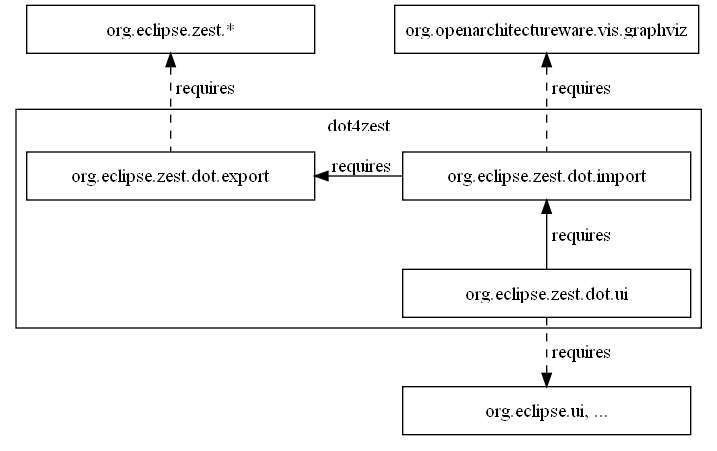
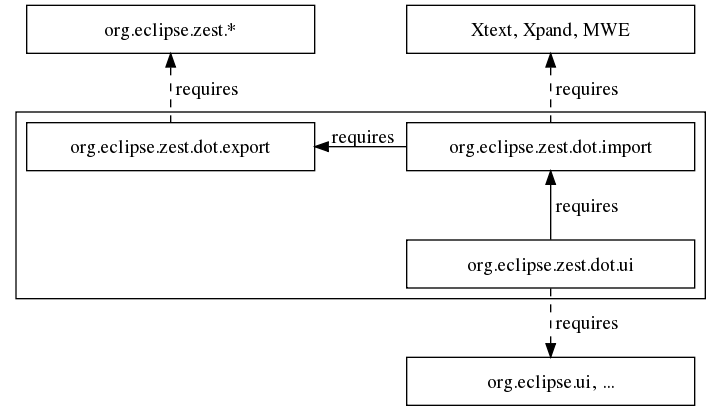
[277380] gef-head fsteeg 100515 Updated documentation

diff --git a/org.eclipse.zest.dot.ui/Graphviz_DOT_as_a_DSL_for_Zest/Graphviz-DOT-as-a-DSL-for-Zest.html b/org.eclipse.zest.dot.ui/Graphviz_DOT_as_a_DSL_for_Zest/Graphviz-DOT-as-a-DSL-for-Zest.html
@@ -27,10 +27,10 @@
 		</p>
 		<h2 id="User_Documentation">User Documentation</h2>
 		<h3 id="Installation">Installation</h3>
-		<p>In Eclipse 3.5, add the update site at 
+		<p>Add the update site at 
 			<i>http://quui.de/updates</i> (Help -&gt; Install New Software... -&gt; Add...) and install the 
 			<i>dot4zest</i> feature (from the 
-			<i>Zest</i> category). Note that this is an external update site for easy access to preview releases, and not provided by the Eclipse Foundation.
+			<i>Zest</i> category). Use the latest 0.9.x version for Helios, or the latest 0.8.x version for Galileo. Note that this is an external update site for easy access to preview releases, and not provided by the Eclipse Foundation.
 		</p>
 		<h3 id="GUI">GUI</h3>
 		<p>In the UI, this feature adds two wizards ('New Zest Graph' and 'New Zest Project') under a category labeled 'Visualization':</p>
@@ -83,7 +83,12 @@
 			<i>templates/</i> folder of a Zest project, the file will both be visualized in the Zest Graph view (e.g. during editing) and compiled to a Zest graph subclass (e.g. to be used in a different application), and can be exported as a PDF with Graphviz.
 		</p>
 		<p>At the same time the view provides a simple way to visualize *.dot file output of any kind of program, e.g. to visualize and debug internal data structures, results, etc: if a program running in Eclipse outputs any *.dot file in the workspace, the view will be updated with the corresponding Zest graph.</p>
-		<p>In addition to visualizing DOT files with Zest, the Zest view also displays embedded DOT in other files, e.g. for DOT graphs 
+		<h4 id="Editing">Editing</h4>
+		<p>The Zest view can be used with the included DOT editor to visualize a DOT file:</p>
+		<p>
+			<img width="400" border="0" src="images/DotZestEditor.png"/>
+		</p>
+		<p>Additionally, the Zest view also displays embedded DOT in other files, e.g. 
 			<a href="http://fsteeg.wordpress.com/2010/01/07/visual-textual-documentation-with-dot-and-zest-in-eclipse/" target="doc_external">in source code comments</a> or 
 			<a href="http://fsteeg.wordpress.com/2010/02/07/diagrams-in-wiki-markup-with-mylyn-wikitext-dot-and-zest/" target="doc_external">in wiki markup</a>:
 		</p>
@@ -177,19 +182,18 @@ File image = exporter.toImage("/opt/local/bin", "pdf");
 			<a href="https://bugs.eclipse.org/bugs/enter_bug.cgi?bug_file_loc=http%3A%2F%2Fwiki.eclipse.org%2FGraphviz_DOT_as_a_DSL_for_Zest&amp;bug_severity=enhancement&amp;bug_status=NEW&amp;comment=&amp;component=Zest&amp;contenttypeentry=&amp;contenttypemethod=autodetect&amp;contenttypeselection=text%2Fplain&amp;data=&amp;description=&amp;flag_type-1=X&amp;flag_type-2=X&amp;flag_type-6=X&amp;form_name=enter_bug&amp;maketemplate=Remember%20values%20as%20bookmarkable%20template&amp;op_sys=All&amp;priority=P3&amp;product=GEF&amp;rep_platform=All&amp;short_desc=%5Bdot4zest%5D%20New%20request%20summary&amp;version=unspecified" target="doc_external">file a new bug</a>. The code for this feature is part of the CVS repository at 
 			<i>dev.eclipse.org:/cvsroot/tools</i>. The dot4zest bundles can be found in 
 			<i>org.eclipse.gef/plugins</i>, named 
-			<i>org.eclipse.zest.dot.*</i>.
+			<i>org.eclipse.zest.dot.*</i>. 
 		</p>
-		<p>To run the current work in progress code, check out the bundles from the CVS location above in Eclipse 3.5 (Galileo) and install the Zest, JET, Xpand, Xtext and MWE 0.7.x features (which are available from the Galileo update site; you have to uncheck 'group items by category' to see the Zest features).</p>
-		<p>You should also install the optional Xtext Antlr feature 0.7.x from the Itemis update site at 
+		<p>To run the current work in progress code (in Eclipse 3.6 Helios), install the Zest, JET, Xpand, Xtext and MWE 1.x.x features (which are available from the Helios update site under the 
+			<i>modeling</i> category). You will also have to install the Xtext Antlr feature 1.x.x from the Itemis update site at 
 			<i>
-				<a href="http://download.itemis.com/updates/" target="doc_external">http://download.itemis.com/updates/</a>
+				<a href="http://download.itemis.com/updates/milestones" target="doc_external">http://download.itemis.com/updates/milestones</a>
 			</i> (see the 
-			<a href="http://www.eclipse.org/Xtext/documentation/0_7_0/xtext.html#antlr_ip_issue" target="doc_external">Xtext documentation</a> for details on this). Finally, you need to check out the 
-			<i>org.openarchitectureware.vis.graphviz</i> bundle from the SVN at 
-			<i>
-				<a href="http://emfmodelvisualizer.googlecode.com/svn/galileo/" target="doc_external">http://emfmodelvisualizer.googlecode.com/svn/galileo/</a>
-			</i>. After the checkout, run (Run As -&gt; MWE workflow) the 
-			<i>GenerateDot.mwe</i> in the src/ folder of that bundle. 
+			<a href="http://www.eclipse.org/Xtext/documentation/0_7_0/xtext.html#antlr_ip_issue" target="doc_external">Xtext documentation</a> for details on this). 
+		</p>
+		<p>Then, check out the bundles from the CVS location above. After the checkout, run (Run As -&gt; MWE2 workflow) the 
+			<i>GenerateDot.mwe2</i> in the 
+			<i>/src/org/eclipse/zest/internal/dot/parser</i> folder of the import bundle.
 		</p>
 		<p>Run the 
 			<i>*Suite.java</i> test suites of the individual bundles (in src-test/) as JUnit tests to get an impression of the current implementation state. To test the UI components, run an Eclipse application configured with 
@@ -215,20 +219,16 @@ File image = exporter.toImage("/opt/local/bin", "pdf");
 		</p>
 		<p>
 			<div class="thumb right">
-				<div class="thumbinner" style="width:277px;">
+				<div class="thumbinner" style="width:177px;">
 					<a href="DotZestOverview.png" class="image">
-						<img class="thumbimage" width="275" align="right" border="0" src="images/DotZestOverview.png"/>
+						<img class="thumbimage" width="175" align="right" border="0" src="images/DotZestOverview.png"/>
 					</a>
-					<div class="thumbcaption">Implementing Graphviz DOT input and output for Zest using Eclipse modeling technology (solid arrows represent  components outside of dot4zest)</div>
+					<div class="thumbcaption">Implementation of Graphviz DOT input and output for Zest using Eclipse modeling technology</div>
 				</div>
 			</div>
 		</p>
 		<h4 id="DOT_to_Zest">DOT to Zest</h4>
-		<p>An Xtext grammar, parser and Xpand generators for Graphviz DOT exist in openArchitectureWare (oAW) 4.3 (the relevant bundles org.openarchitectureware.graphviz.*, are now part of the 
-			<a href="http://code.google.com/p/emfmodelvisualizer/" target="doc_external">EMF model visualizer project</a>). Based on this, dot4zest contains an Xpand generator that transforms Graphviz DOT descriptions into Java code that creates an equivalent Zest visualization. 
-		</p>
-		<p>There is also a way to define Zest animations using the DOT language (by representing animation steps as subgraphs in DOT, see user guide above). </p>
-		<p>Besides this compiler, dot4zest also interprets the parsed DOT EMF model to dynamically create Zest graphs in the Zest view (see above).</p>
+		<p>Based on an Xtext grammar, dot4zest uses an Xpand generator that transforms Graphviz DOT descriptions into Java code which creates an equivalent Zest visualization. There is also a way to define Zest animations using the DOT language (by representing animation steps as subgraphs in DOT, see user guide above). Besides this compiler, dot4zest also interprets the parsed DOT EMF model to dynamically create Zest graphs in the Zest view (see above).</p>
 		<h4 id="Zest_to_DOT">Zest to DOT</h4>
 		<p>To transform Zest graph instances to the Graphviz DOT language dot4zest uses 
 			<a href="http://wiki.eclipse.org/M2T-JET" target="doc_external">JET</a>. 
@@ -243,7 +243,7 @@ File image = exporter.toImage("/opt/local/bin", "pdf");
 			<i>simple directed graph</i>, 
 			<i>simple animation</i>), which can be edited in the wizard, with a live preview of what the Zest graph is going to look like.
 		</p>
-		<p>Extending this kind of functionality, dot4zest adds a Zest project type where the DOT files are placed in a special folder (and can be edited conveniently using the DOT editor from oAW). Using a project builder, the corresponding Zest Graph implementation classes are generated, which can be used from other parts of the project's code, similar to JET templates and generators. </p>
+		<p>Extending this kind of functionality, dot4zest adds a Zest project type where the DOT files are placed in a special folder (and can be edited conveniently using the included DOT editor). Using a project builder, the corresponding Zest Graph implementation classes are generated, which can be used from other parts of the project's code, similar to JET templates and generators. </p>
 		<p>To provide visualization of DOT graphs using Zest in a workbench, dot4zest contains a Zest graph view which views a DOT graph with Zest by interpreting the EMF model parsed from the DOT input (see user guide above).</p>
 		<h3 id="Future_Ideas">Future Ideas</h3>
 		<ul>

diff --git a/org.eclipse.zest.dot.import/src-test/org/eclipse/zest/dot/SampleUsage.java b/org.eclipse.zest.dot.import/src-test/org/eclipse/zest/dot/SampleUsage.java
@@ -13,7 +13,6 @@ import java.io.File;
 import org.eclipse.swt.SWT;
 import org.eclipse.swt.widgets.Shell;
 import org.eclipse.zest.core.widgets.Graph;
-import org.eclipse.zest.tests.dot.TestImageExport;
 import org.junit.Test;
 
 /**
@@ -41,14 +40,14 @@ public class SampleUsage {
         /* Export the Zest graph to DOT: */
         String dot = exporter.toDotString();
         /* Or to an image file, via a given Graph installation: */
-        File image = exporter.toImage(TestImageExport.dotBinDir(), "pdf");
+        //File image = exporter.toImage(TestImageExport.dotBinDir(), "pdf");
         //File image = exporter.toImage("/opt/local/bin", "pdf"); // set dir and uncomment
+        //System.out.println(image);
         /*****************************************************************/
         
         //TestGraphInstanceDotImport.open(shell); // sets title, layout, and size, opens the shell
         System.out.println(graph);
         System.out.println(file);
         System.out.println(dot);
-        System.out.println(image);
     }
 }
